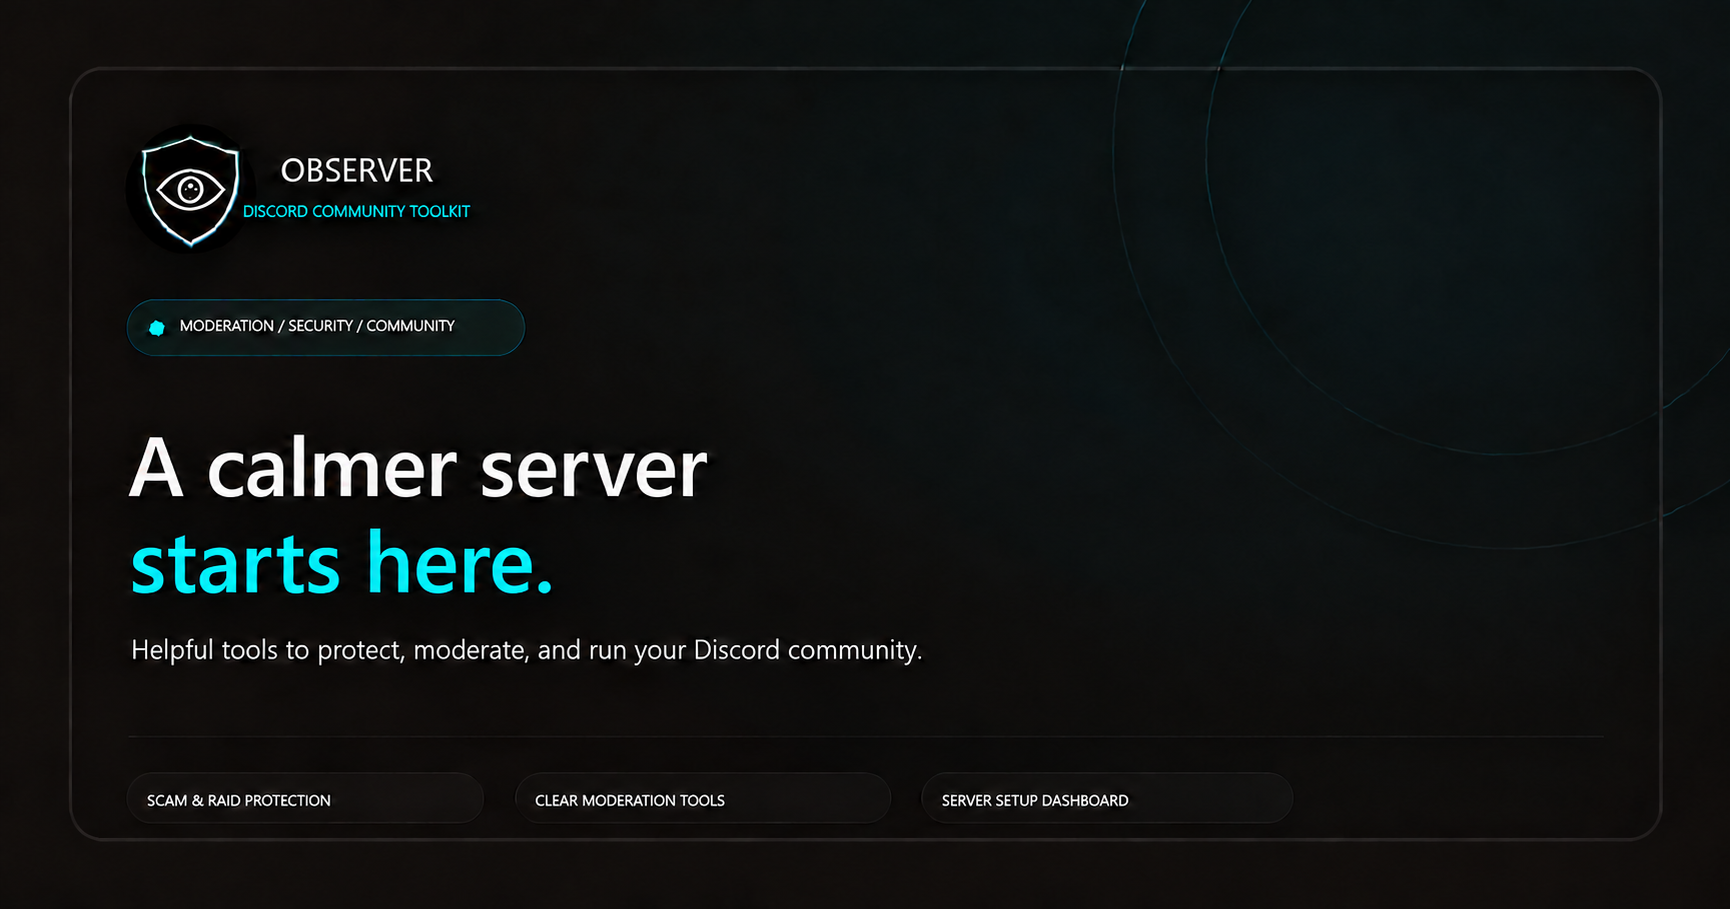
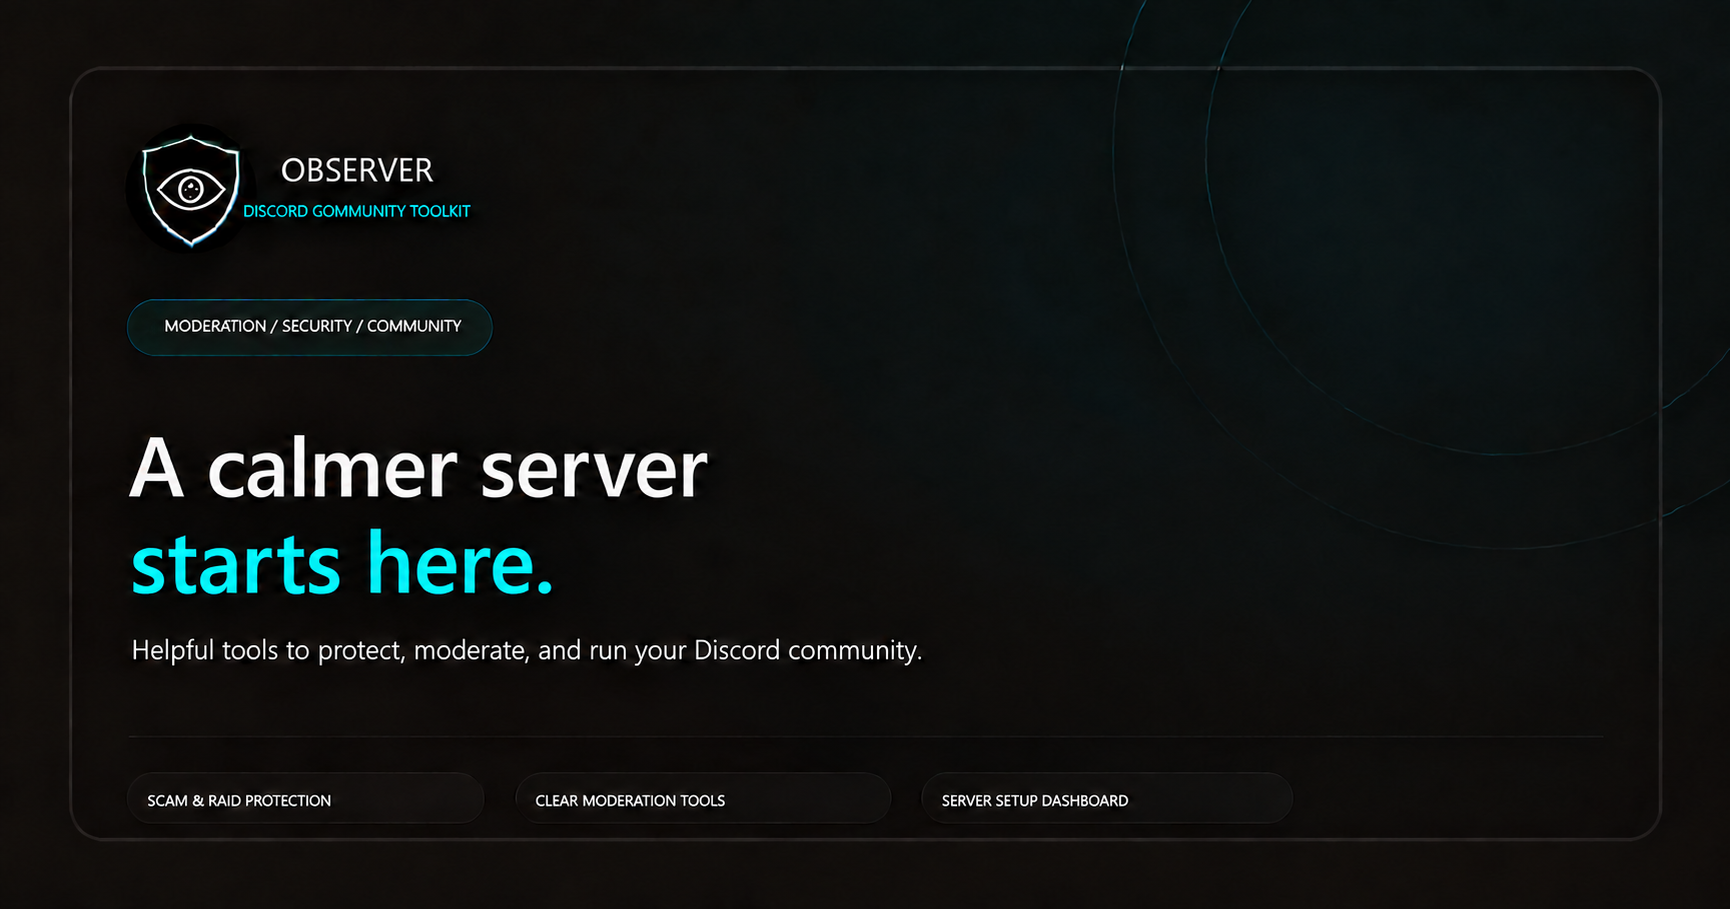
Remove dot and tighten preview badge

diff --git a/activity/index.html b/activity/index.html
@@ -13,8 +13,8 @@
     <meta property="og:url" content="https://observer-dashboard.observer/?share=1" />
     <meta property="og:title" content="Observer | A calmer Discord server" />
     <meta property="og:description" content="A modular Discord bot for moderation, reports, server safety, community tools, and web-based server configuration." />
-    <meta property="og:image" content="https://observer-dashboard.observer/og-card.png?v=5" />
-    <meta property="og:image:secure_url" content="https://observer-dashboard.observer/og-card.png?v=5" />
+    <meta property="og:image" content="https://observer-dashboard.observer/og-card.png?v=6" />
+    <meta property="og:image:secure_url" content="https://observer-dashboard.observer/og-card.png?v=6" />
     <meta property="og:image:type" content="image/png" />
     <meta property="og:image:width" content="1730" />
     <meta property="og:image:height" content="909" />
@@ -22,7 +22,7 @@
     <meta name="twitter:card" content="summary_large_image" />
     <meta name="twitter:title" content="Observer | A calmer Discord server" />
     <meta name="twitter:description" content="A modular Discord bot for moderation, reports, server safety, community tools, and web-based server configuration." />
-    <meta name="twitter:image" content="https://observer-dashboard.observer/og-card.png?v=5" />
+    <meta name="twitter:image" content="https://observer-dashboard.observer/og-card.png?v=6" />
     <title>Observer | Discord community tools</title>
   </head>
   <body>
